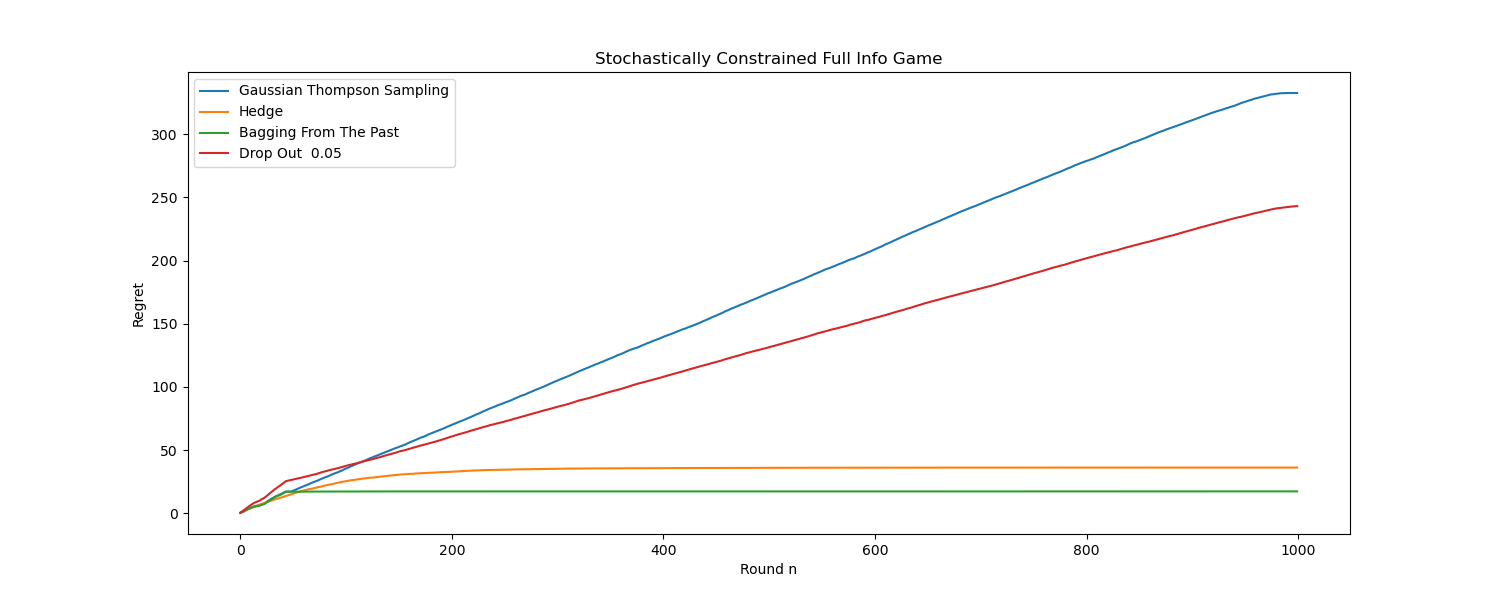
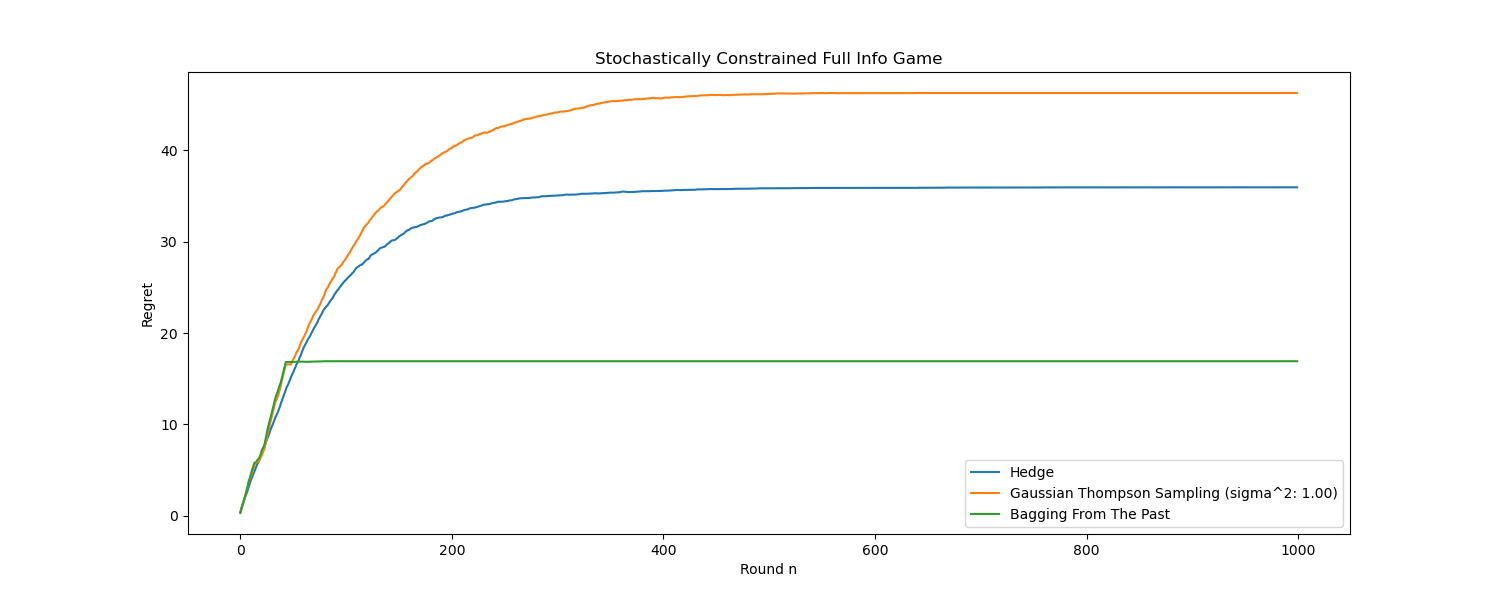
Full-Info

diff --git a/simulations.py b/simulations.py
@@ -22,14 +22,21 @@ stochastically_constrained_data_job = Stochastically_Constrained()
 
 hedge = Hedge(stochastically_constrained_data_job)
 bagging_from_the_past_fi = BaggingFromThePast_FI(stochastically_constrained_data_job)
-drop_out_fi = DropOut_FI(stochastically_constrained_data_job, dropout_prob=0.05)
-gaussian_thompson_sampling = Gaussian_Thompson_FI(stochastically_constrained_data_job, sigma_sq=stochastically_constrained_data_job.get_K())
+gaussian_thompson_sampling = Gaussian_Thompson_FI(stochastically_constrained_data_job, 1)
 full_info_ground = Full_Info_Play_Ground(stochastically_constrained_data_job, 
-                                         [gaussian_thompson_sampling, hedge, bagging_from_the_past_fi, drop_out_fi], 
+                                         [hedge, gaussian_thompson_sampling, bagging_from_the_past_fi], 
                                          plot_label="Stochastically Constrained Full Info Game")
 full_info_ground.plot_results()
 
-bagging_from_the_past = BaggingFromThePast_PI(high_gap_stochastic_data_job)
+hedge = Hedge(high_gap_stochastic_data_job)
+bagging_from_the_past_fi = BaggingFromThePast_FI(high_gap_stochastic_data_job)
+gaussian_thompson_sampling = Gaussian_Thompson_FI(high_gap_stochastic_data_job, 1)
+full_info_ground = Full_Info_Play_Ground(high_gap_stochastic_data_job, 
+                                         [hedge, gaussian_thompson_sampling, bagging_from_the_past_fi], 
+                                         plot_label="Stochastic High Gap Full Info Game")
+full_info_ground.plot_results()
+
+""" bagging_from_the_past = BaggingFromThePast_PI(high_gap_stochastic_data_job)
 exp3 = Exp3(high_gap_stochastic_data_job)
 exp3_plus_plus = Exp3_plus_plus(high_gap_stochastic_data_job)
 tsallis_inf = Tsallis_Inf(high_gap_stochastic_data_job)
@@ -53,4 +60,4 @@ partial_info_ground_2 = Partial_Info_Play_Ground(stochastically_constrained_data
                                                  [gaussian_thompson_sampling, exp3, drop_out, 
                                                  bagging_from_the_past, tsallis_inf, exp3_plus_plus],
                                                  plot_label = "Stochastically Constrained Partial Info Game")
-partial_info_ground_2.plot_results()
+partial_info_ground_2.plot_results() """
